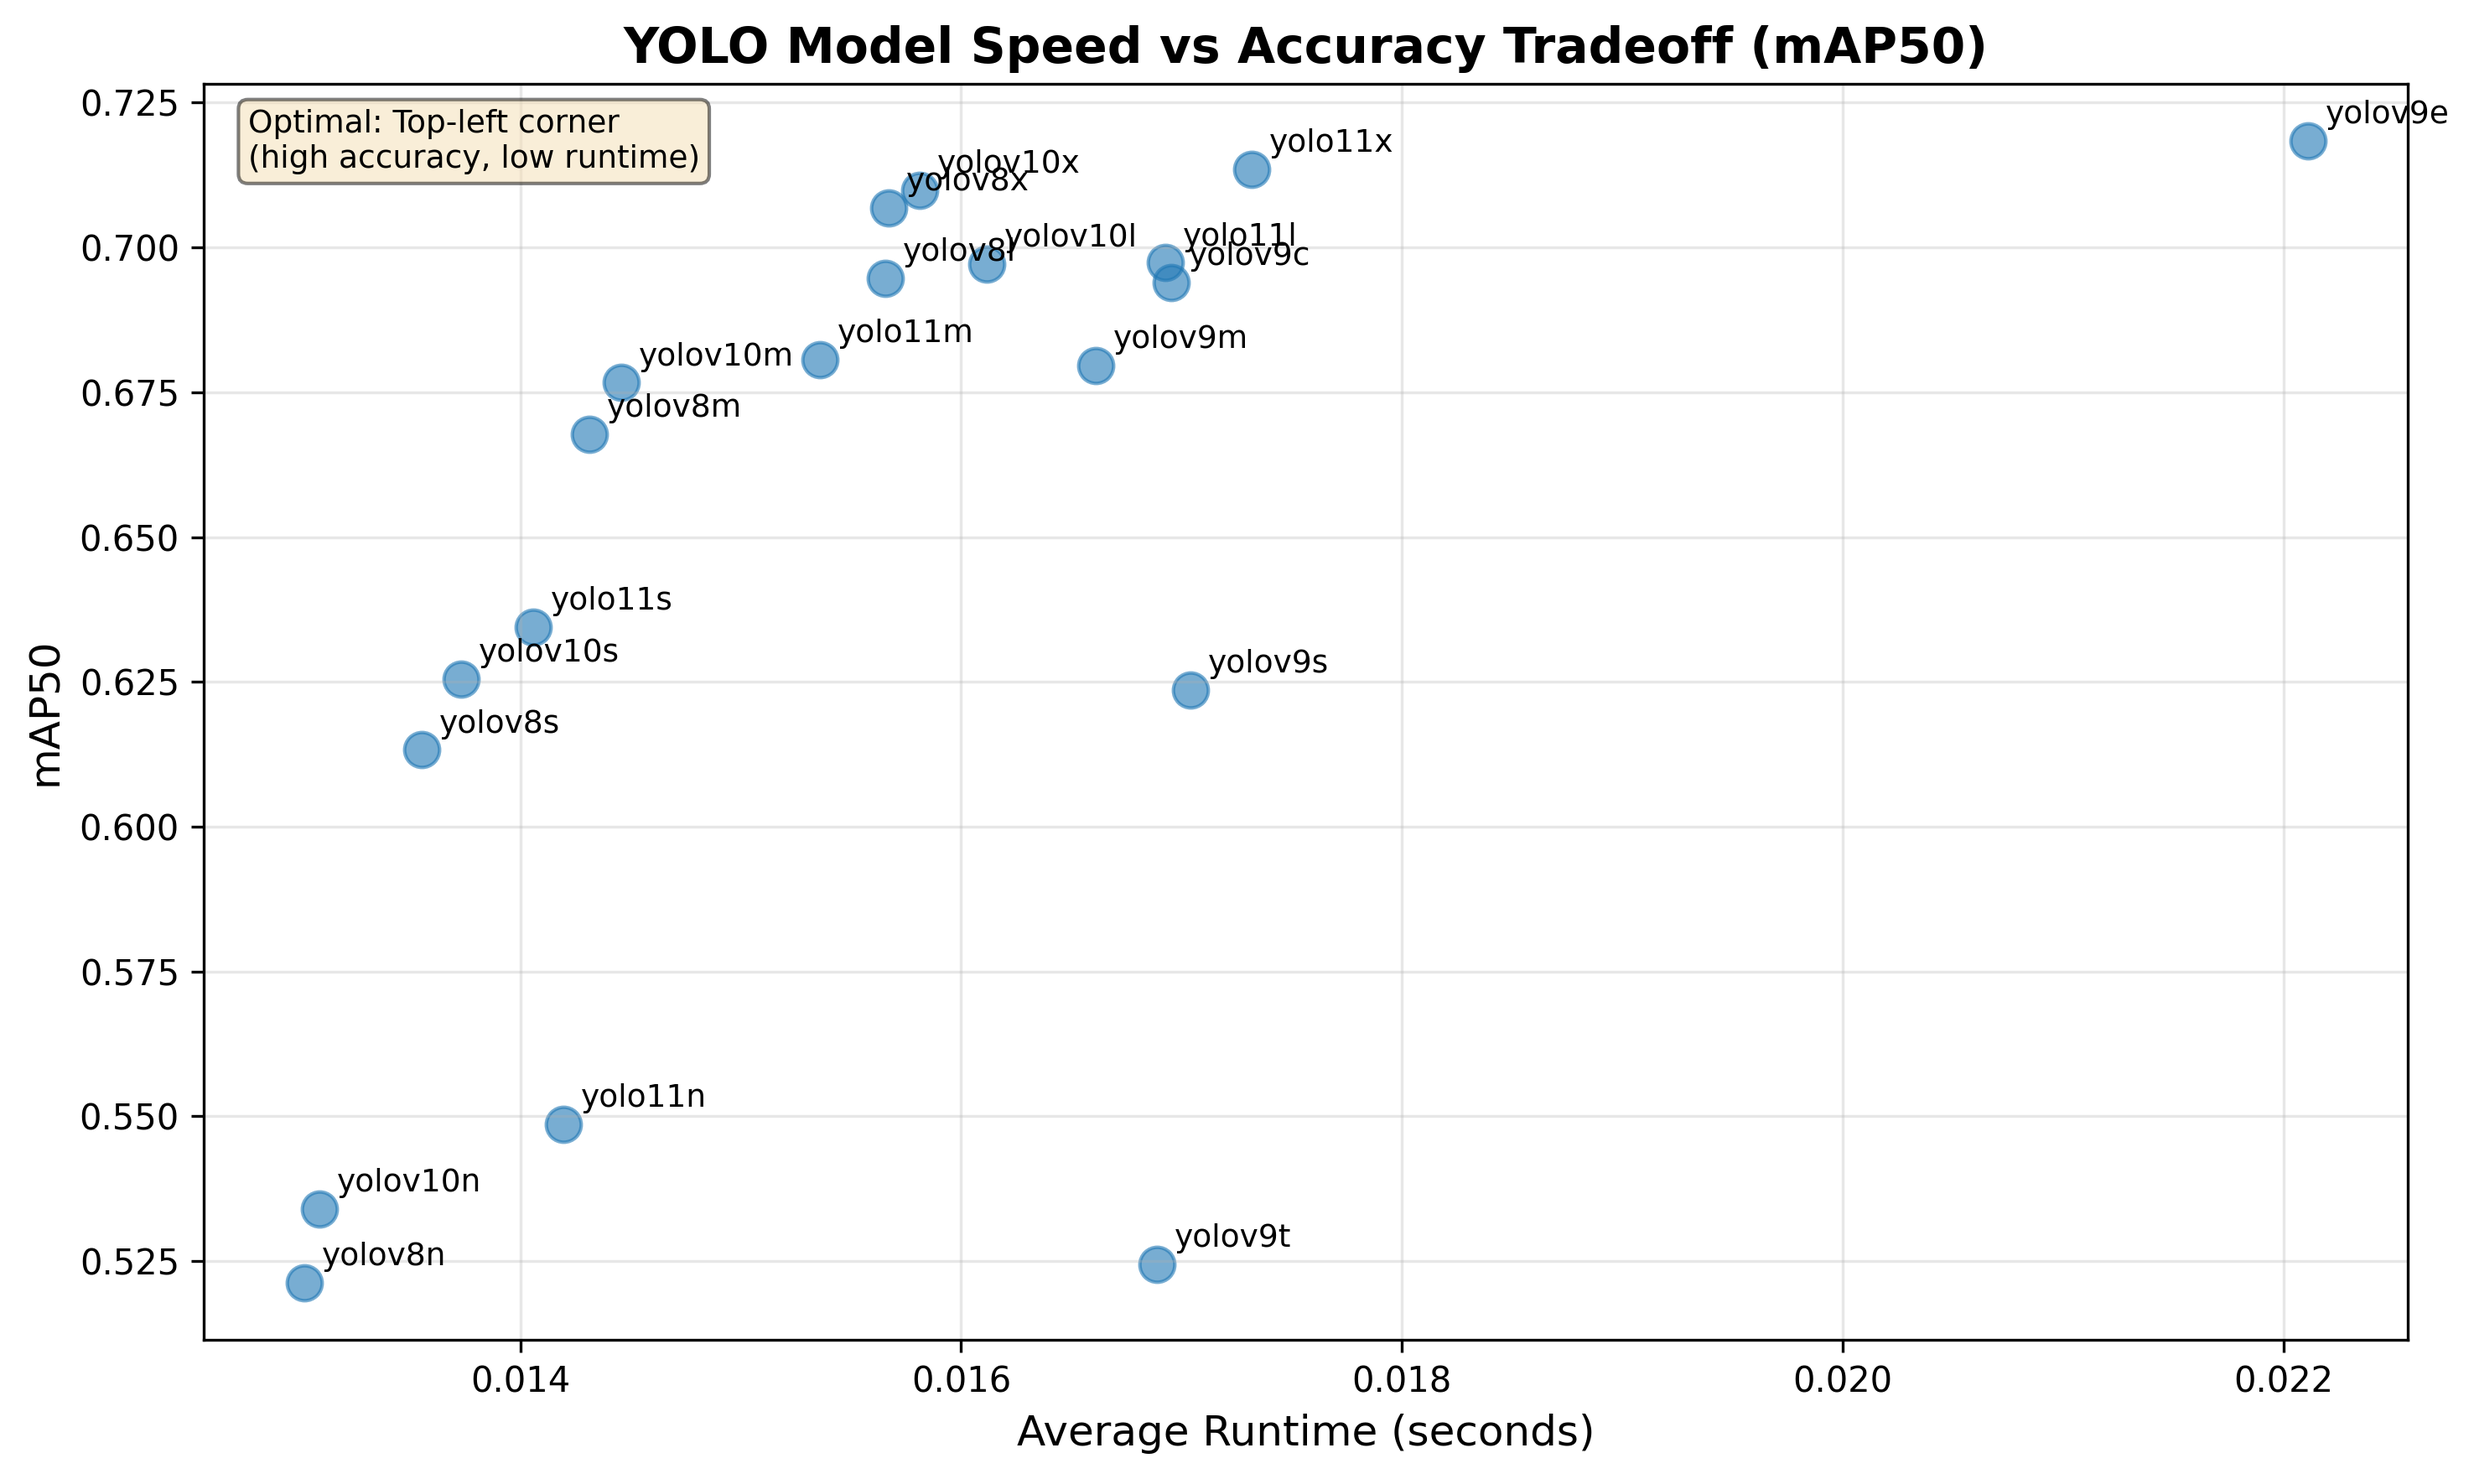
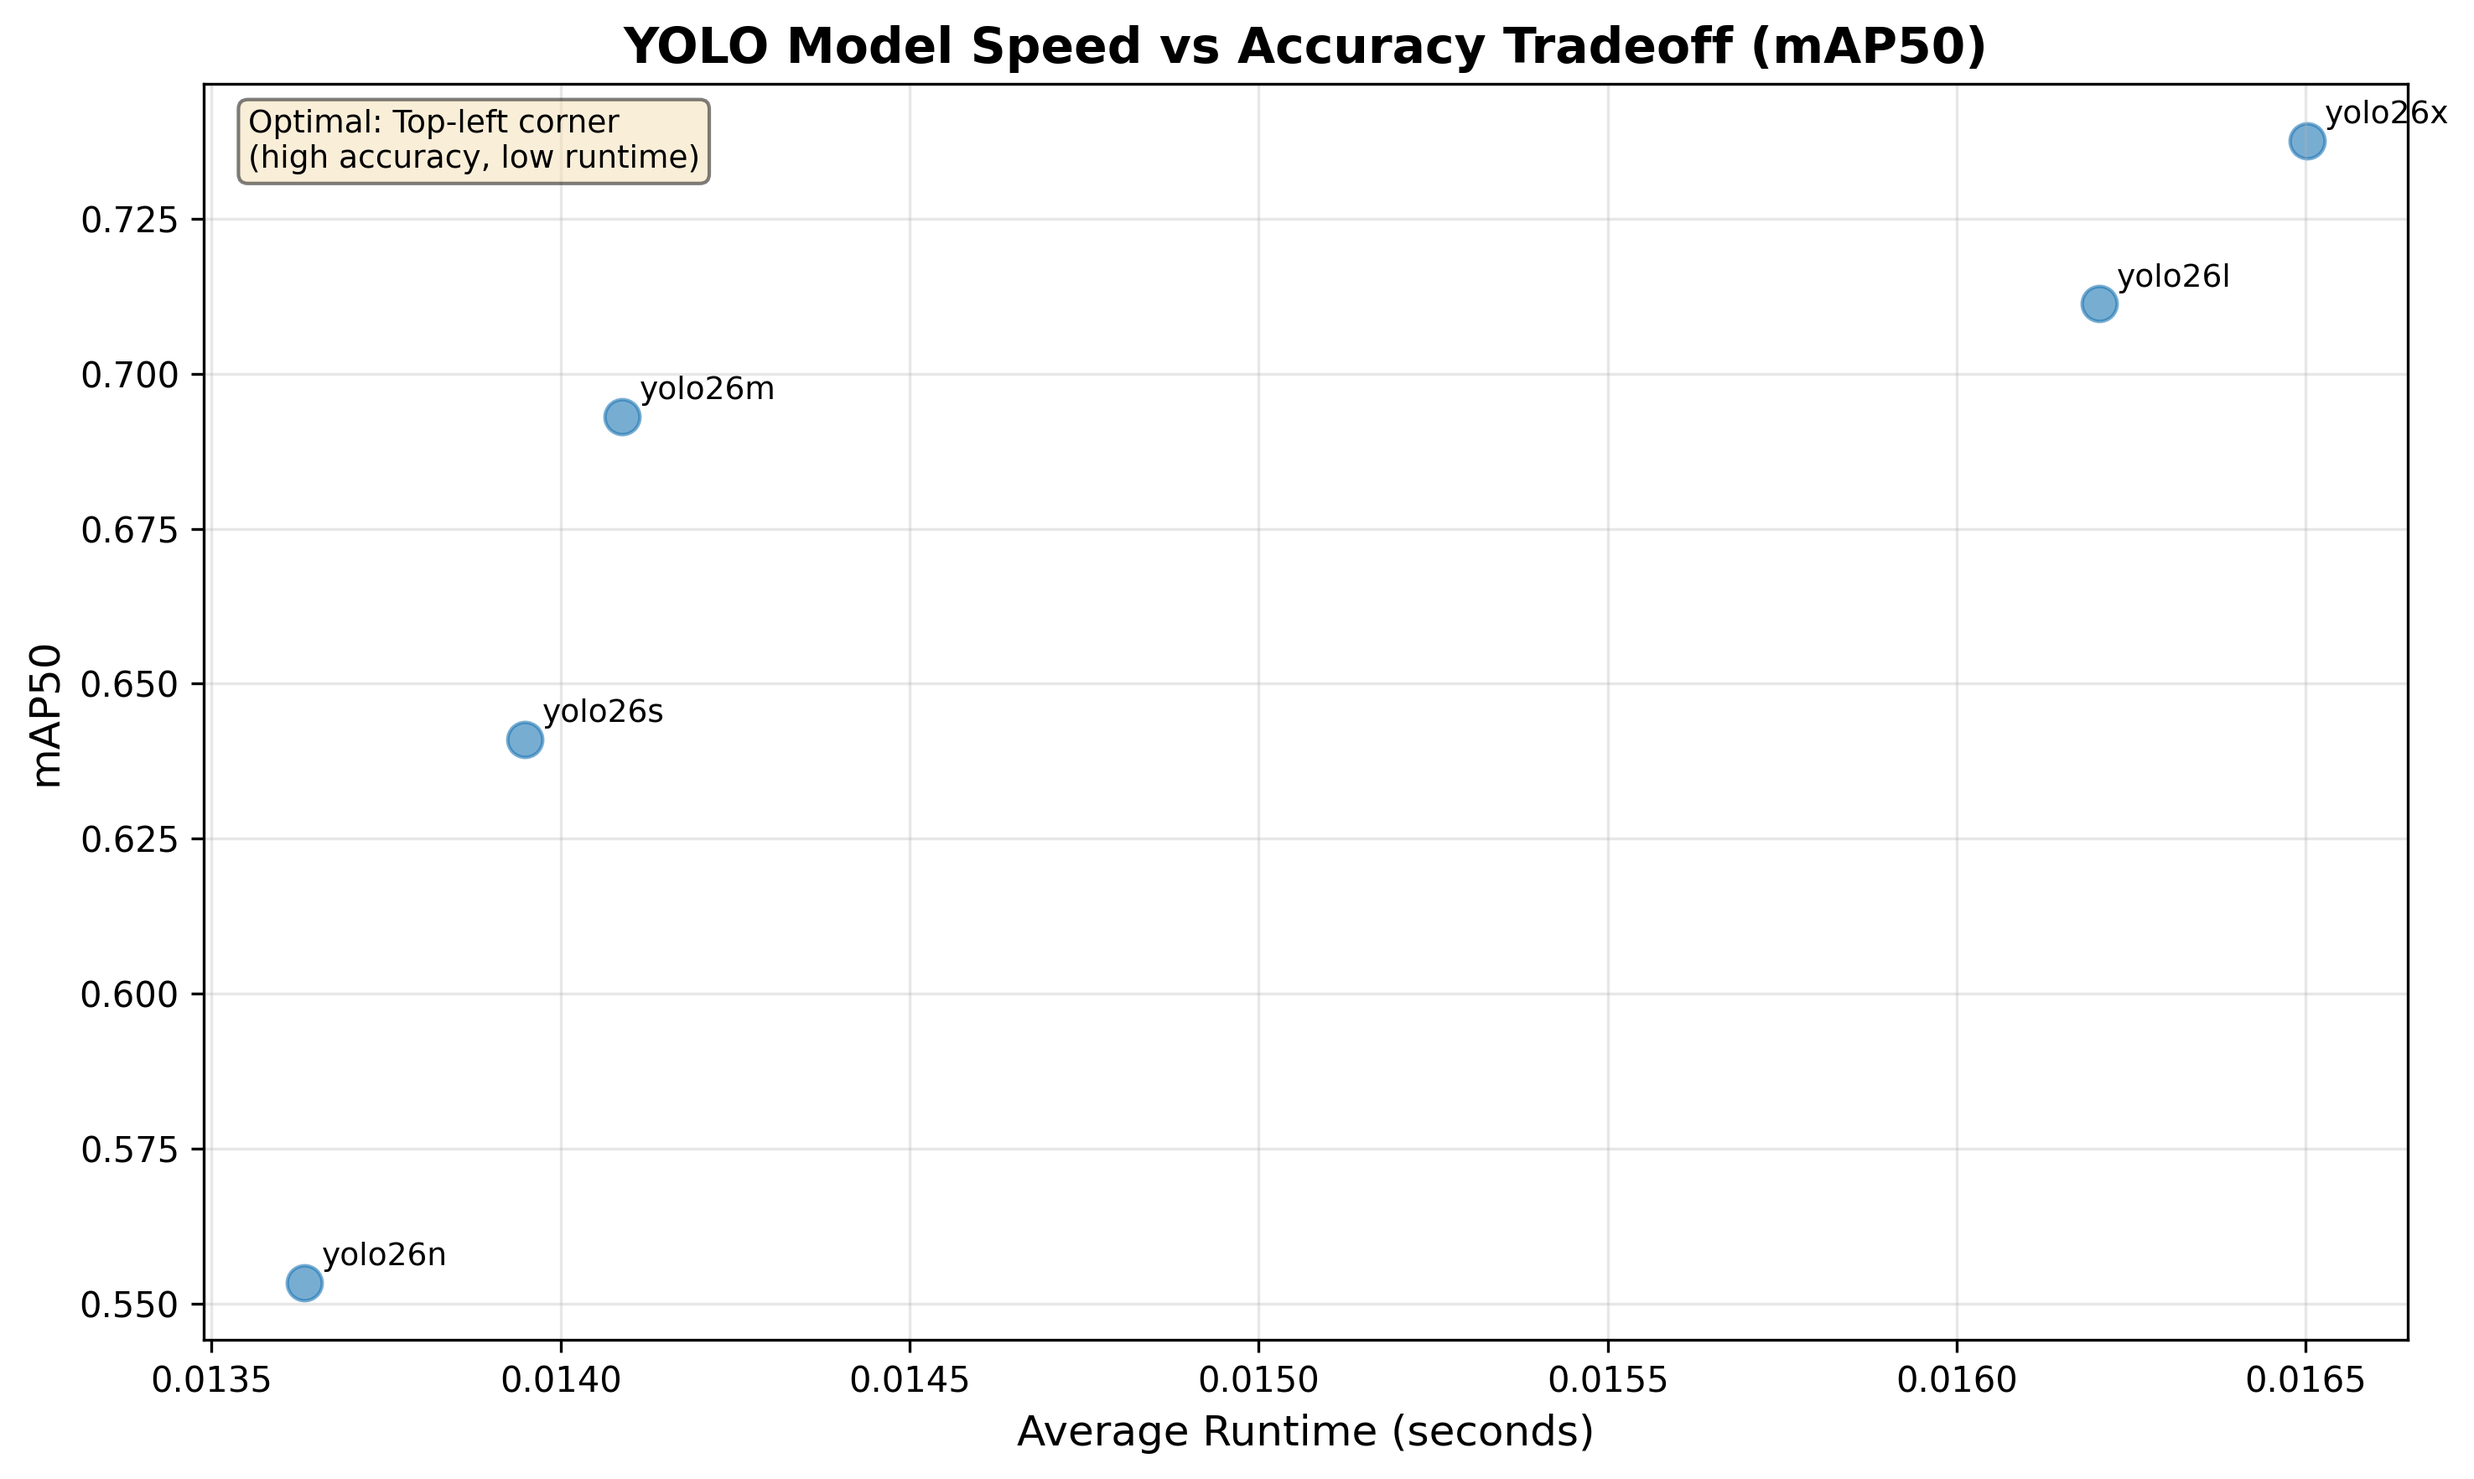
added test python file. Added new model

diff --git a/L3/yolo_benchmark.py b/L3/yolo_benchmark.py
@@ -12,39 +12,48 @@ NUM_WARMUPS = 5
 NUM_RUNS = 20
 OUTPUT_ROOT = "outputs/yolo_test7" # single folder for each run
 YOLO_MODELS = [
-    "yolov8n.pt",
-    "yolov8s.pt",
-    "yolov8m.pt",
-    "yolov8l.pt",
-    "yolov8x.pt",
+    # "yolov8n.pt",
+    # "yolov8s.pt",
+    # "yolov8m.pt",
+    # "yolov8l.pt",
+    # "yolov8x.pt",
 
-    "yolo11n.pt",  # YOLOv11 nano
-    "yolo11s.pt",  # YOLOv11 small
-    "yolo11m.pt",  # YOLOv11 medium
-    "yolo11l.pt",  # YOLOv11 large
-    "yolo11x.pt",  # YOLOv11 xlarge
+    # "yolo11n.pt",  # YOLOv11 nano
+    # "yolo11s.pt",  # YOLOv11 small
+    # "yolo11m.pt",  # YOLOv11 medium
+    # "yolo11l.pt",  # YOLOv11 large
+    # "yolo11x.pt",  # YOLOv11 xlarge
 
-    "yolov10n.pt",
-    "yolov10s.pt",
-    "yolov10m.pt",
-    "yolov10l.pt",
-    "yolov10x.pt",
+    # "yolov10n.pt", # speed optimized models
+    # "yolov10s.pt",
+    # "yolov10m.pt",
+    # "yolov10l.pt",
+    # "yolov10x.pt",
 
-    "yolov9t.pt",  # tiny
-    "yolov9s.pt",
-    "yolov9m.pt",
-    "yolov9c.pt",  # compact
-    "yolov9e.pt",  # extended
-
+    # "yolov9t.pt",  # tiny
+    # "yolov9s.pt",
+    # "yolov9m.pt",
+    # "yolov9c.pt",  # compact
+    # "yolov9e.pt",  # extended
+    "yolo26n.pt",
+    "yolo26s.pt",
+    "yolo26m.pt",
+    "yolo26l.pt",
+    "yolo26x.pt",
 
 ]
 MAP_METRIC = "mAP50" # "mAP50-95", "mAP50", "mAP75"
 
 # TODO
-# test all five models done 
-# test nano in CPU
-# try other image detection model
+# document everything
+# gpu data (helpful to save data locally between every model
+# maybe put graphing functionality on a different code)
 
+# adjust data set (too big and not targeted for detection trash in nature)
+
+# watch L4
+# think about combining SAM with LLM (maybe custom ChatGPT) 
+        # -- probably more interested in SLM
 
 
 def main(device):
